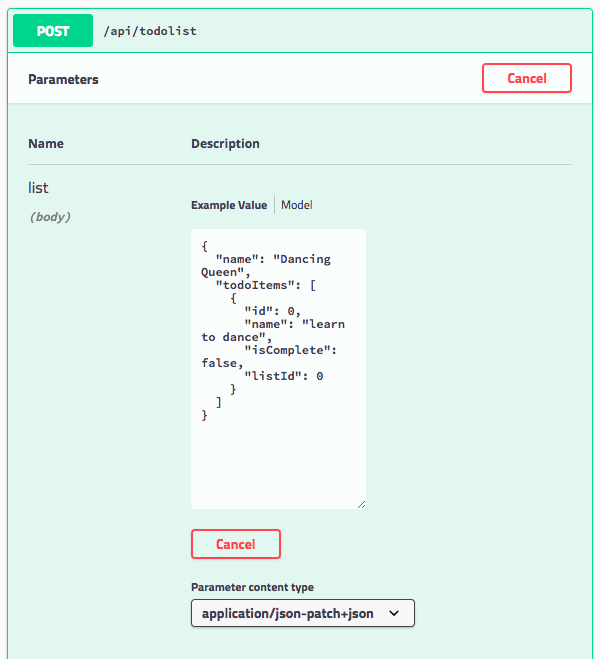
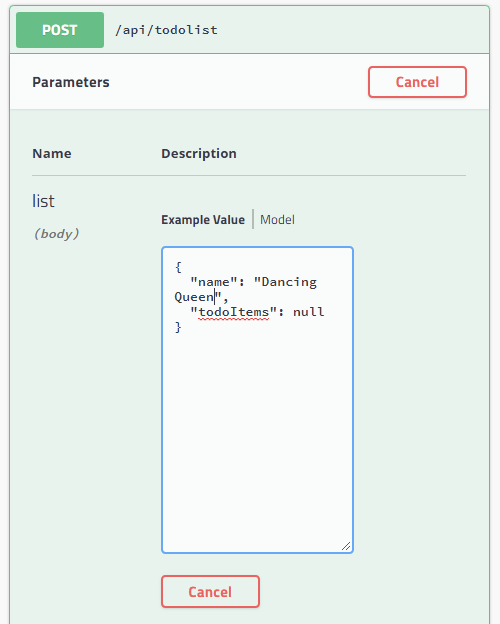
update post part of README

diff --git a/README.md b/README.md
@@ -89,6 +89,13 @@ Swagger will display "Id", but we don't need it because the database
 will assign it an ID number.  Delete the Id portion.  Type in 
 "Dancing Queen" because most of us want to be dancing queens, yes???
 
+```
+{
+  "name": "Dancing Queen",
+  "todoItems": null
+}
+```
+
 ![Post a new list](/assets/postList.png)
 
 Navigate back to the directions to get all lists and we can see the
